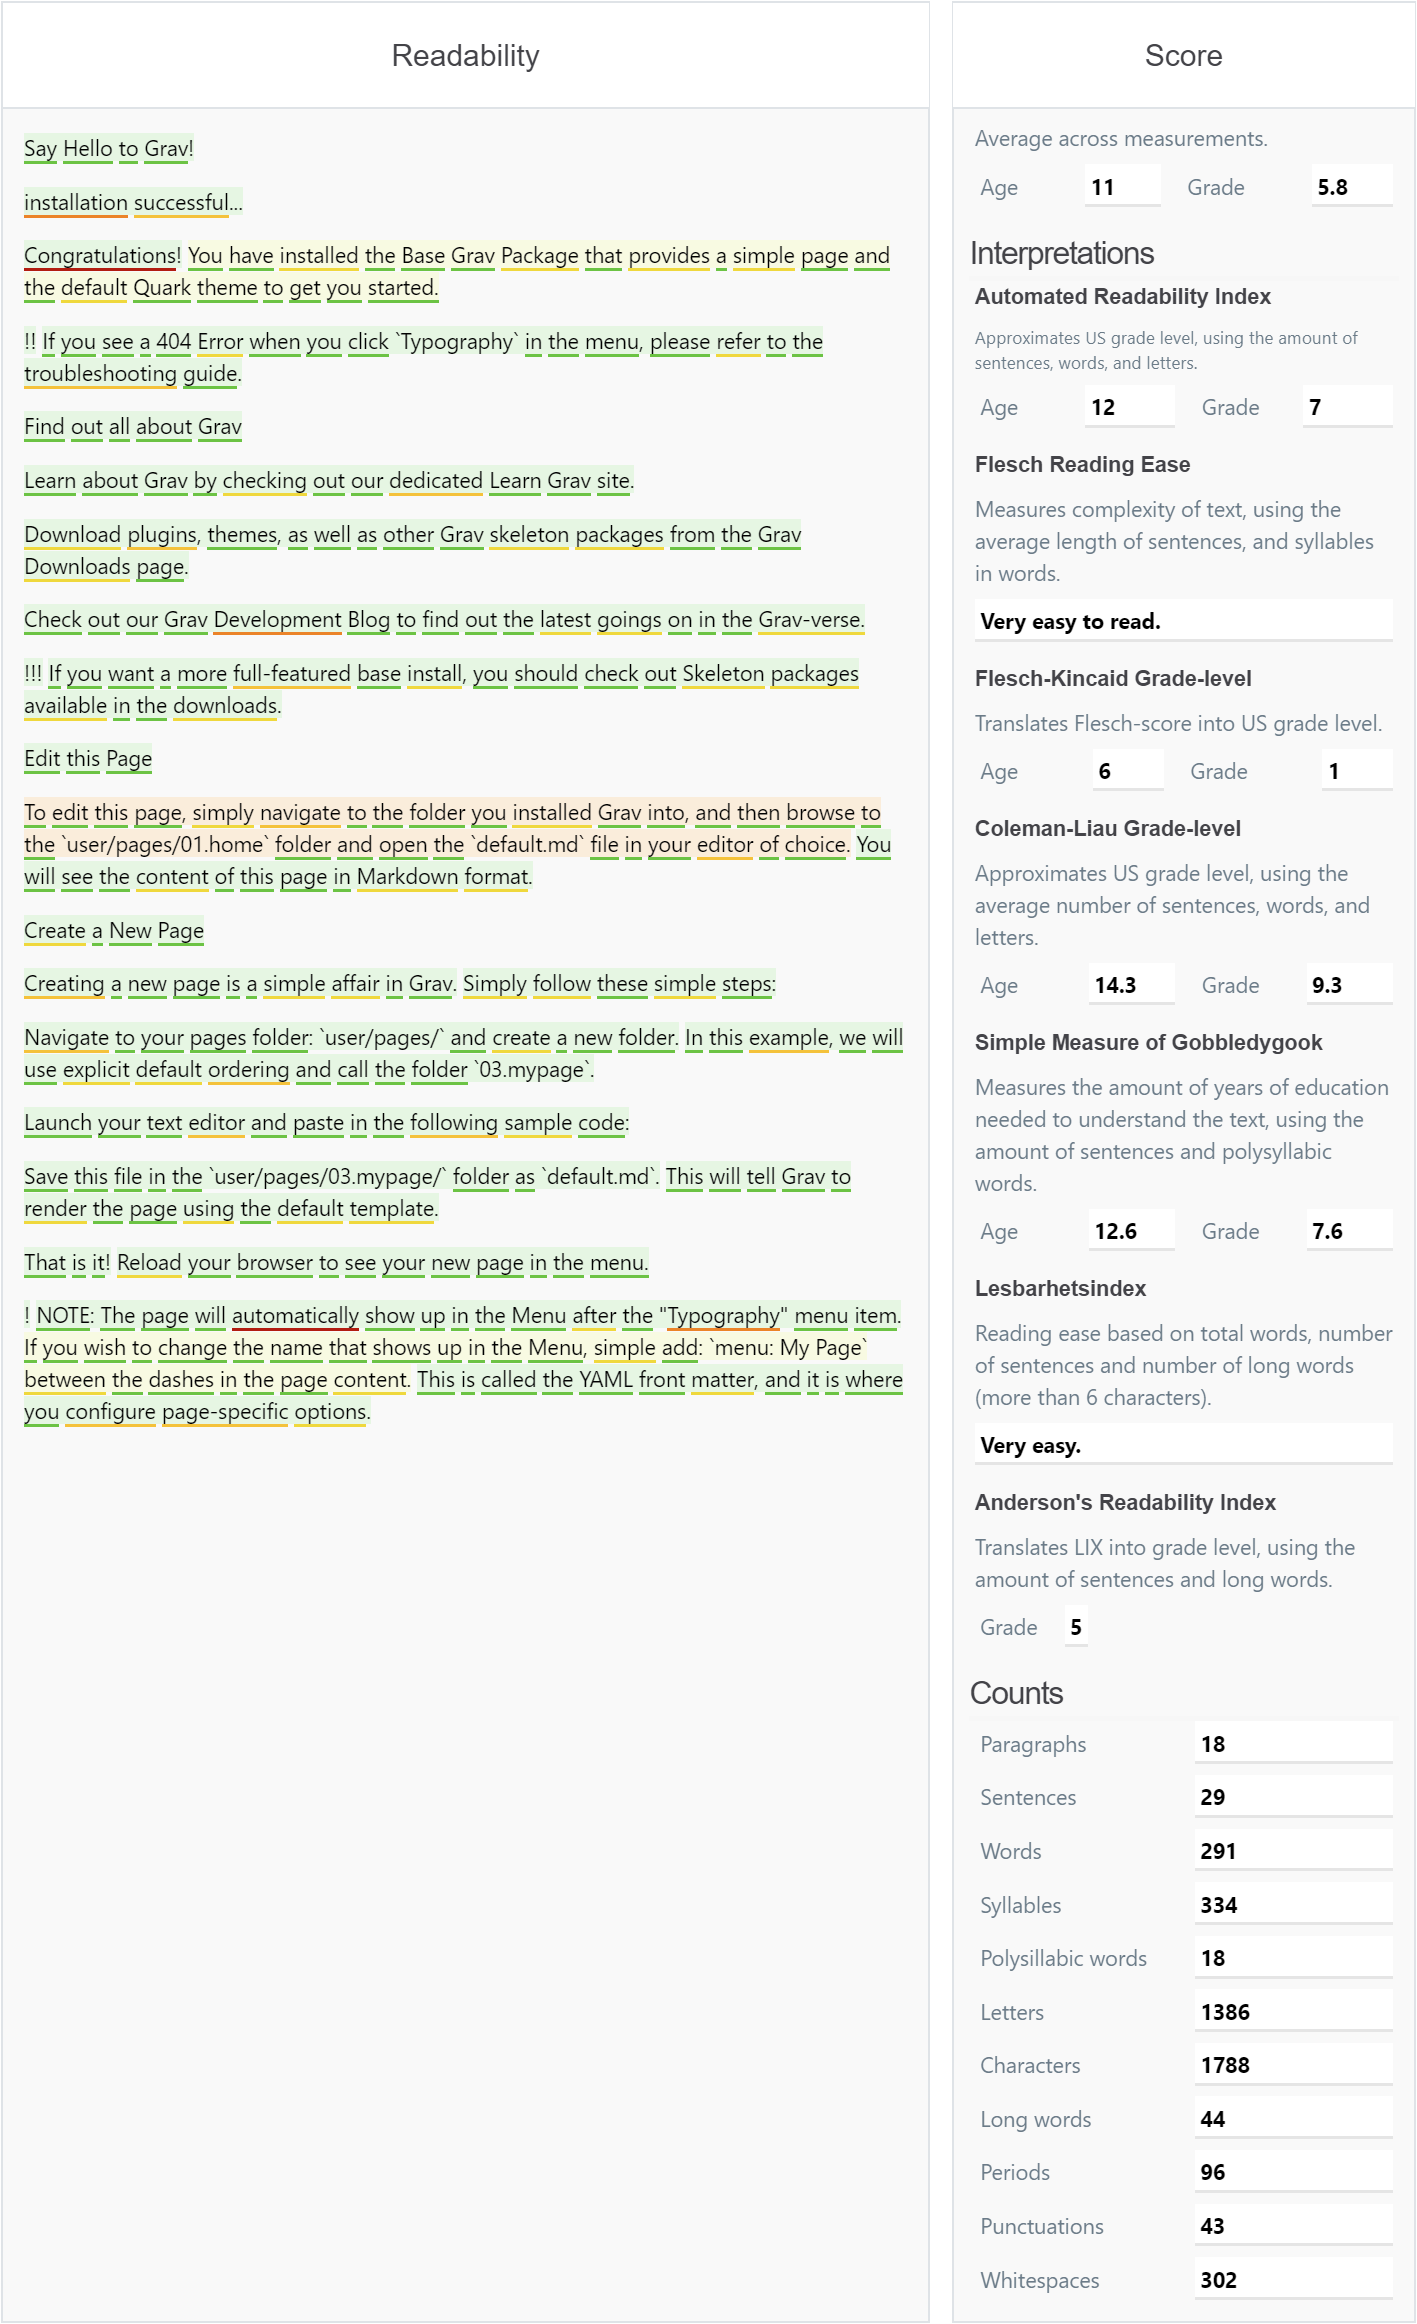
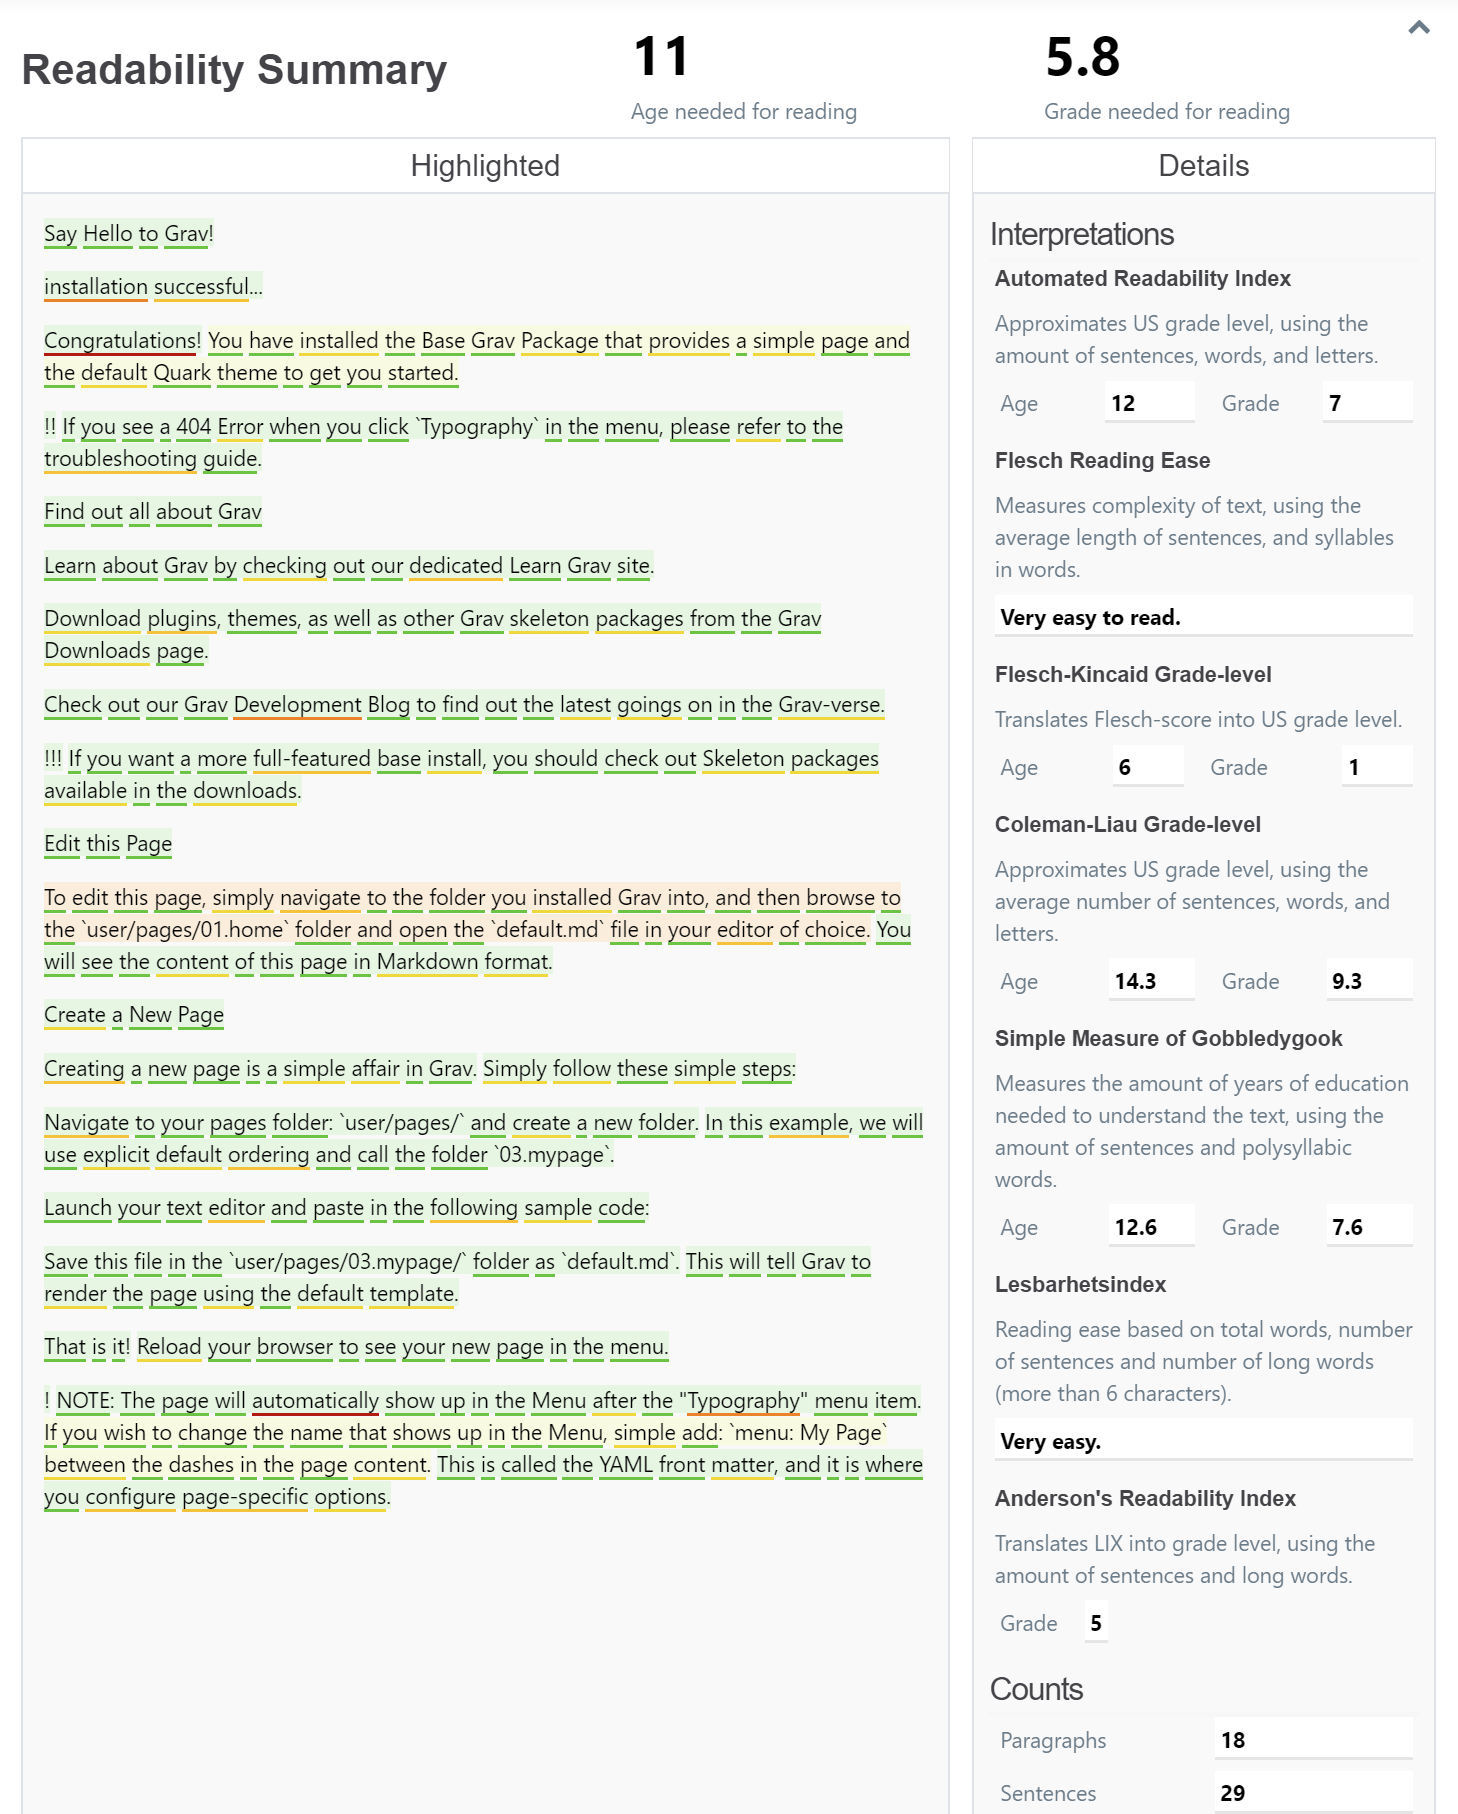
Pathing, debug, visuals, toggler

diff --git a/js/admin.js b/js/admin.js
@@ -27,16 +27,16 @@ function msToTime(millisec) {
  * @param {object} data Generated data
  */
 function renderScore(data, Annotations) {
-  document.querySelector(".readability #consensus .description").innerHTML =
-    Annotations.stats.consensus.description;
-  document.querySelector(".readability #consensus label.age").innerHTML =
-    Annotations.general.age;
-  document.querySelector(".readability #consensus value.age").innerHTML =
+  document.querySelector(".readability #consensus-age value").innerHTML =
     data.consensus.age;
-  document.querySelector(".readability #consensus label.grade").innerHTML =
-    Annotations.general.grade;
-  document.querySelector(".readability #consensus value.grade").innerHTML =
+  document
+    .querySelector(".readability #consensus-age")
+    .setAttribute("title", Annotations.stats.consensus.description);
+  document.querySelector(".readability #consensus-grade value").innerHTML =
     data.consensus.grade;
+  document
+    .querySelector(".readability #consensus-grade")
+    .setAttribute("title", Annotations.stats.consensus.description);
   document.querySelector(
     ".readability #automated-readability-index .title"
   ).innerHTML = Annotations.stats.automatedReadability.title;
@@ -200,16 +200,8 @@ function renderAnalysis(
   console.debug(
     "Starting Readability Analysis: " + msToTime(performance.now() - start)
   );
-  const colors = {
-    one: "#D90023",
-    two: "#D94900",
-    three: "#D9B500",
-    four: "#8FD900"
-  };
   const results = {};
   console.debug("Start Score: " + msToTime(performance.now() - start));
-  document.querySelector("#readability-render").style.backgroundColor =
-    colors.one;
   document
     .querySelector("#readability-render i.fa")
     .classList.remove("fa-file-text-o");
@@ -221,13 +213,12 @@ function renderAnalysis(
     .then(function(response) {
       results.data = response;
       renderScore(results.data, Annotations);
+      document.querySelector("#readability-toggle").style.display = "block";
       console.debug("End Score: " + msToTime(performance.now() - start));
-      var readabilityElement = document.querySelector(".readability");
+      const readabilityElement = document.querySelector(".readability");
       readabilityElement.style.display = "grid";
       const nlcst = results.data.setup.nlcst;
       console.debug("Start Paragraphs: " + msToTime(performance.now() - start));
-      document.querySelector("#readability-render").style.backgroundColor =
-        colors.two;
       return paragraphsWorker.postMessage({ nlcst, path: readabilityBaseUrl });
     })
     .then(function(response) {
@@ -238,8 +229,6 @@ function renderAnalysis(
       console.debug("End Paragraphs: " + msToTime(performance.now() - start));
       const nlcst = results.paragraphs;
       console.debug("Start Sentences: " + msToTime(performance.now() - start));
-      document.querySelector("#readability-render").style.backgroundColor =
-        colors.three;
       return sentencesWorker.postMessage({ nlcst, path: readabilityBaseUrl });
     })
     .then(function(response) {
@@ -250,8 +239,6 @@ function renderAnalysis(
       console.debug("End Sentences: " + msToTime(performance.now() - start));
       const nlcst = results.sentences;
       console.debug("Start Words: " + msToTime(performance.now() - start));
-      document.querySelector("#readability-render").style.backgroundColor =
-        colors.four;
       return wordsWorker.postMessage({
         nlcst,
         lang: lang,
@@ -348,25 +335,21 @@ window.addEventListener(
 
       renderButton();
 
-      document.querySelector(".readability #header-main").innerHTML =
-        Annotations.general.module;
-      document.querySelector(".readability #header-score").innerHTML =
-        Annotations.general.score;
       document.querySelector(".readability #header-interpretations").innerHTML =
         Annotations.general.interpretations;
       document.querySelector(".readability #header-counts").innerHTML =
         Annotations.general.counts;
 
-      var readabilityWorker = new PromiseWorker(
+      const readabilityWorker = new PromiseWorker(
         new Worker(readabilityBaseUrl + "/js/workers/readability.js")
       );
-      var paragraphsWorker = new PromiseWorker(
+      const paragraphsWorker = new PromiseWorker(
         new Worker(readabilityBaseUrl + "/js/workers/paragraphs.js")
       );
-      var sentencesWorker = new PromiseWorker(
+      const sentencesWorker = new PromiseWorker(
         new Worker(readabilityBaseUrl + "/js/workers/sentences.js")
       );
-      var wordsWorker = new PromiseWorker(
+      const wordsWorker = new PromiseWorker(
         new Worker(readabilityBaseUrl + "/js/workers/words.js")
       );
 
@@ -376,7 +359,7 @@ window.addEventListener(
         });
       }
 
-      var readabilityButton = document.querySelector("#readability-render");
+      const readabilityButton = document.querySelector("#readability-render");
       if (readabilityButton) {
         readabilityButton.addEventListener(
           "click",
@@ -391,6 +374,26 @@ window.addEventListener(
               sentencesWorker,
               wordsWorker
             );
+            event.preventDefault();
+          },
+          false
+        );
+      }
+      const readabilityToggle = document.querySelector("#readability-toggle");
+      if (readabilityToggle) {
+        readabilityToggle.addEventListener(
+          "click",
+          function(event) {
+            const readabilityElement = document.querySelector(".readability");
+            if (readabilityElement.style.display == "grid") {
+              readabilityToggle.classList.remove("fa-chevron-up");
+              readabilityToggle.classList.add("fa-chevron-down");
+              readabilityElement.style.display = "none";
+            } else {
+              readabilityToggle.classList.remove("fa-chevron-down");
+              readabilityToggle.classList.add("fa-chevron-up");
+              readabilityElement.style.display = "grid";
+            }
             event.preventDefault();
           },
           false

diff --git a/css/admin.css b/css/admin.css
@@ -12,12 +12,41 @@
     "Segoe UI", "Oxygen", "Ubuntu", "Cantarell", "Open Sans", sans-serif;
   word-break: break-word;
 }
+.readability header {
+  display: grid;
+  grid-gap: 0.5em 1em;
+  grid-template-columns: 3fr 2fr 2fr;
+  grid-template-rows: auto;
+  grid-column: span 2;
+  margin: 0;
+}
+.readability header h2 {
+  margin: auto 0 !important;
+  padding: 0 !important;
+  font-size: 1.75rem !important;
+  font-weight: bold;
+  text-align: left;
+  border-bottom: 0;
+}
+.readability header section {
+  display: block;
+}
+.readability header section label,
+.readability header section value {
+  padding: 0;
+  border-bottom: 0;
+  box-shadow: none;
+}
+.readability header section value {
+  font-size: 2.5em;
+}
 .readability main,
 .readability aside {
   background-color: hsl(0, 0%, 97.5%);
   border: 1px solid #e1e4e8;
 }
-.readability section {
+.readability main section,
+.readability aside section {
   display: grid;
   grid-gap: 0.5em 1em;
   grid-template-columns: auto;
@@ -90,11 +119,10 @@
   box-shadow: 0 2px 0 rgba(165, 16, 8, 1);
 }
 .readability h2 {
-  font-size: 3em;
   font-weight: 100;
   text-align: center;
   margin: 0;
-  padding: 1em 0;
+  padding: 0.15em 0;
   background-color: #ffffff;
   border-bottom: 1px solid #e1e4e8;
 }
@@ -131,4 +159,12 @@
   -o-transition: background-color 1000ms linear;
   -ms-transition: background-color 1000ms linear;
   transition: background-color 1000ms linear;
+}
+
+#readability-toggle {
+  display: none;
+  position: absolute;
+  right: 1.75rem;
+  cursor: pointer;
+  font-size: 16px;
 }

diff --git a/CHANGELOG.md b/CHANGELOG.md
@@ -1,13 +1,15 @@
 # v1.0.3
-##  XX-06-2019
+##  16-06-2019
 
 1. [](#improved)
     * Pathing in scripts, workers
     * Inline registerPromiseWorker
     * Console-debug
+    * Languages.yaml
+    * Styling
 2. [](#new)
-    * Visual indicator
-    * Load the actual file needed
+    * Visual indicator and display
+    * Toggle to hide output
 
 # v1.0.2
 ##  15-06-2019
